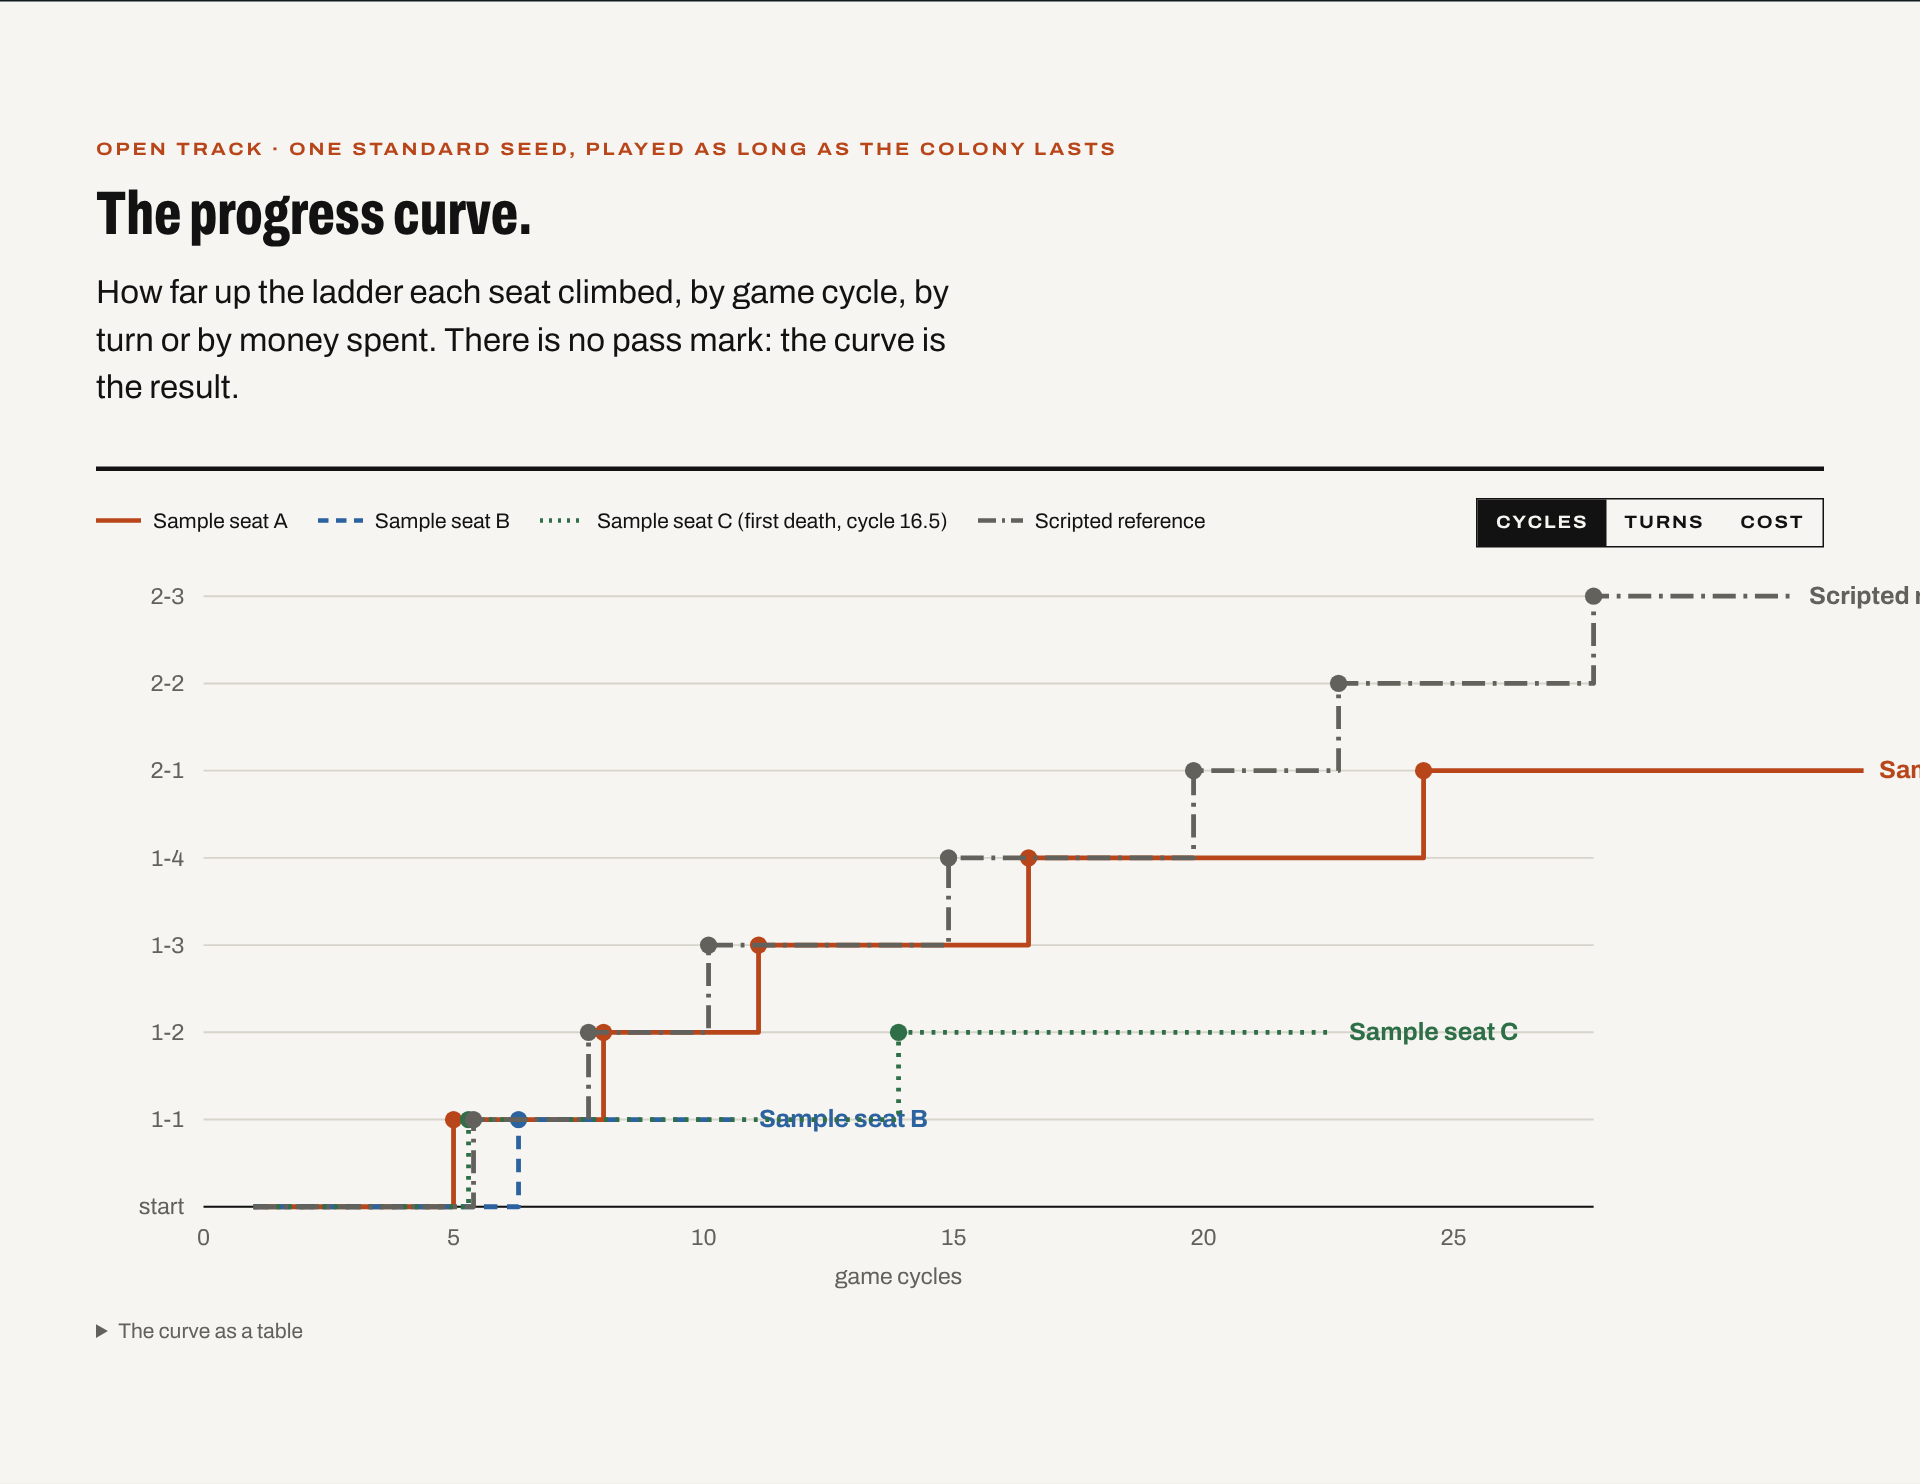
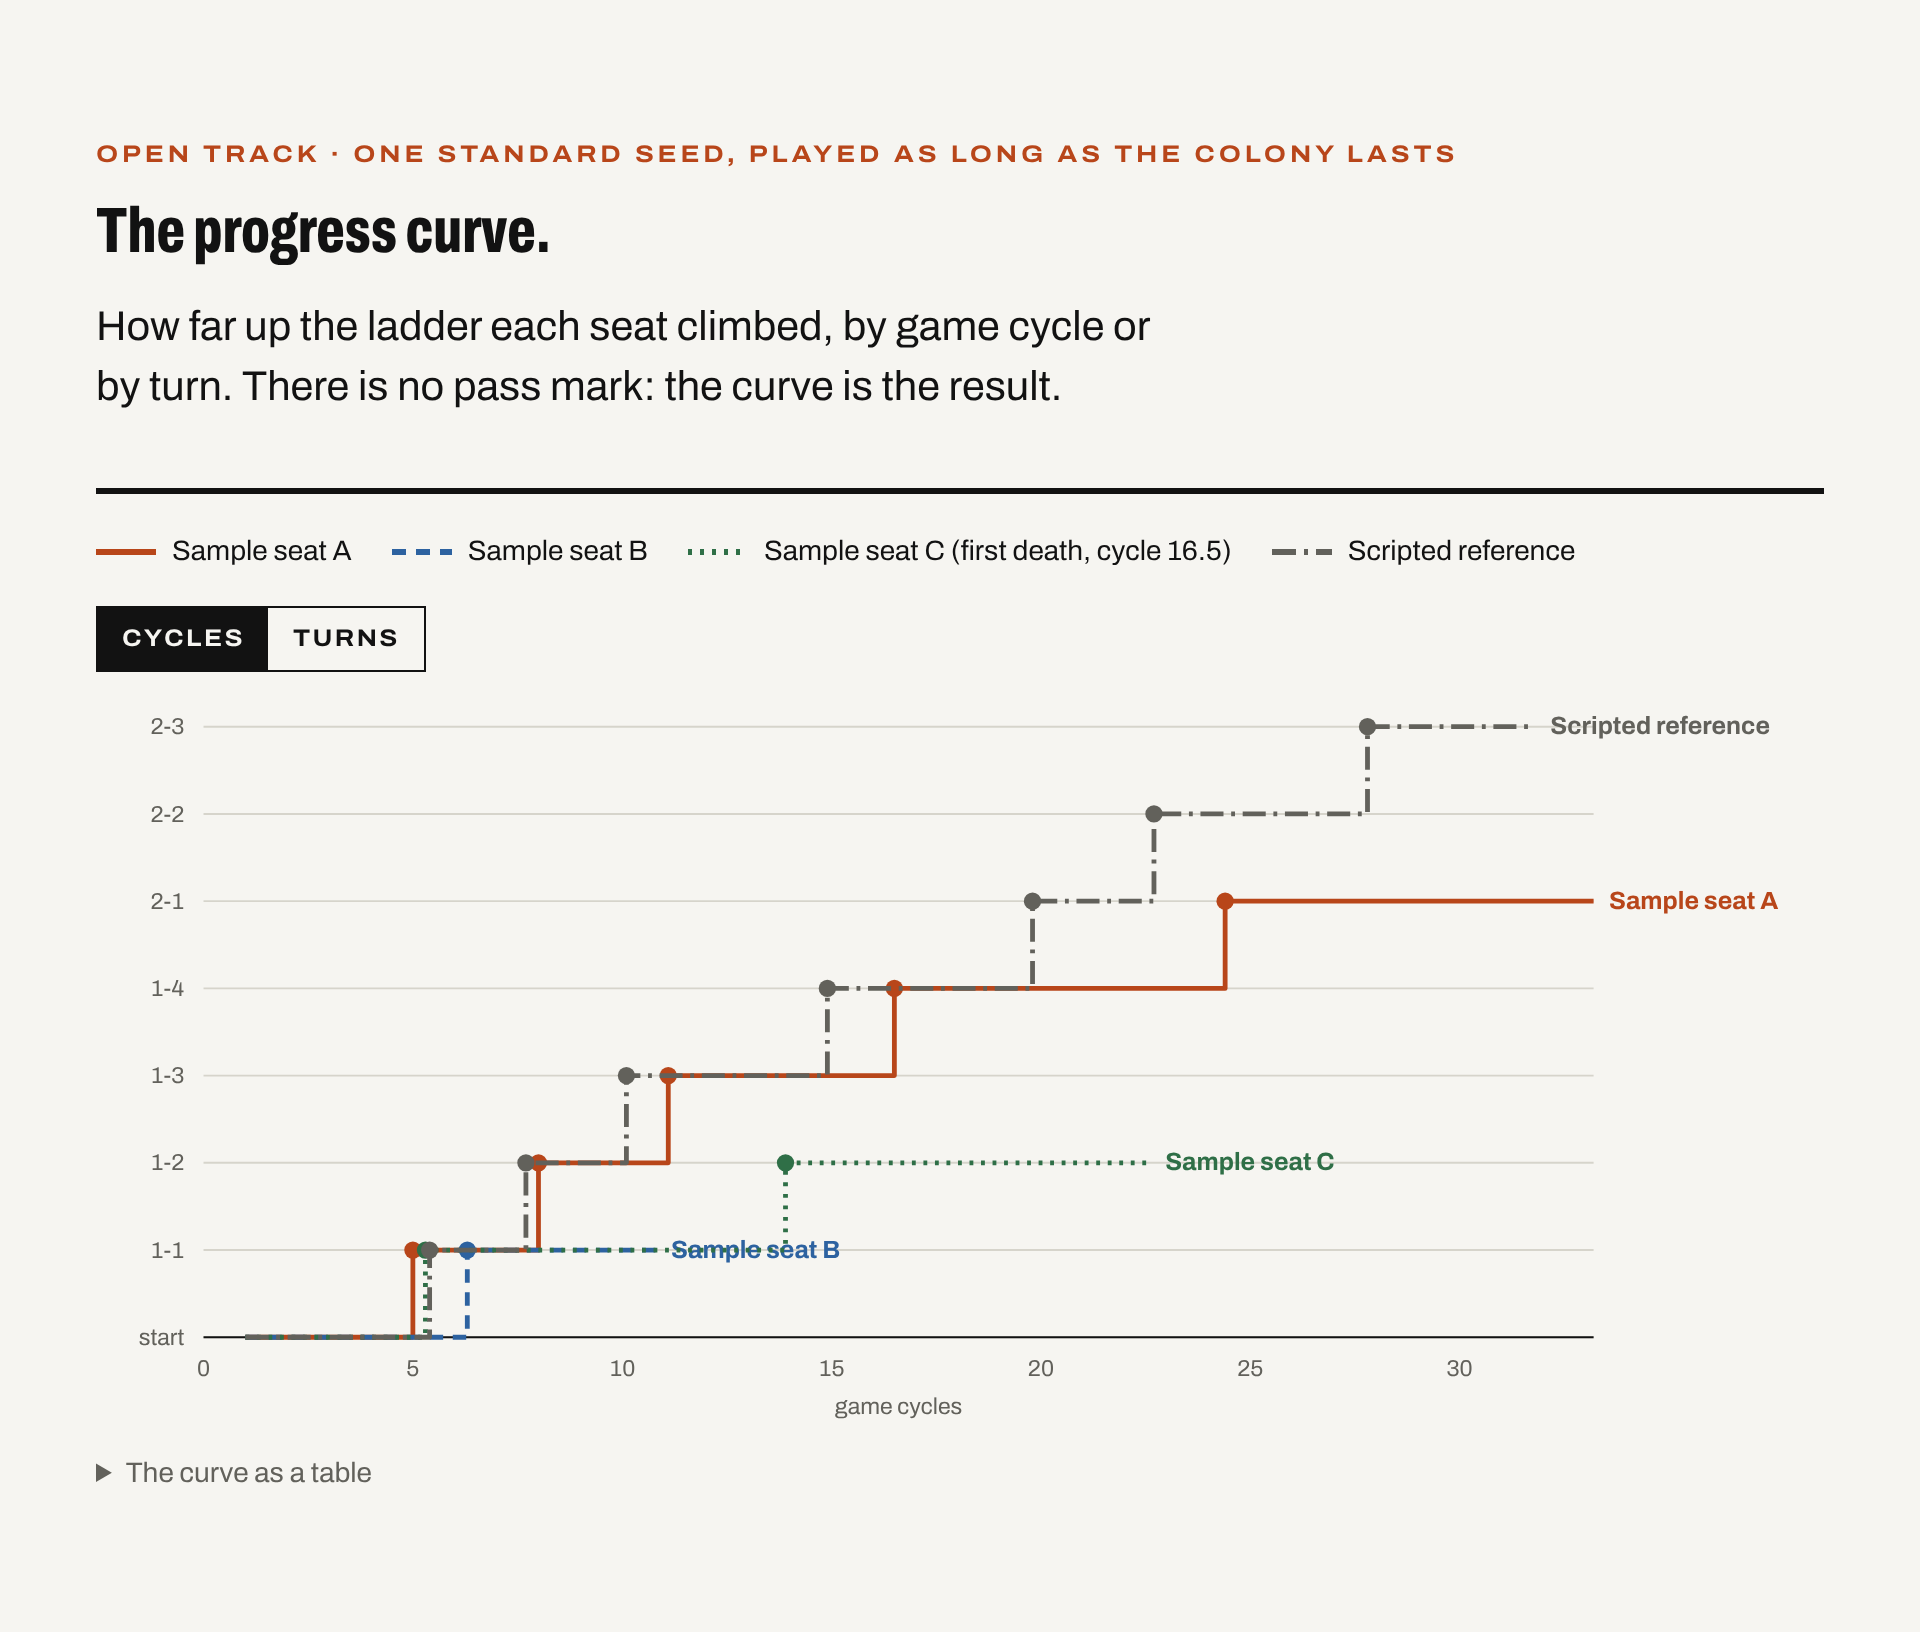
ONI Bench case page: remove money figures (#73)

diff --git a/docs/case-studies/oni-bench/index.html b/docs/case-studies/oni-bench/index.html
@@ -48,7 +48,7 @@
       <p class="status"><a href="../../evidence.html#status"><b>Interface study</b></a> · the run viewer with made-up data; no game run recorded yet · <a href="#evidence" style="white-space:nowrap">see the record</a></p>
     </div>
     <figure class="exhibit">
-      <img src="../../assets/oni-bench/viewer-scoreboard.png" alt="The ONI Bench run viewer's scoreboard, with a bar across the top reading Sample data: made-up sample data for designing the viewer, no game was played and no model was run. Below it the heading How far each seat keeps a colony going, and a ledger of 40 runs, 3 model seats, 29 passes and $29.59 of spend, all made up." width="1920" height="1001" fetchpriority="high">
+      <img src="../../assets/oni-bench/viewer-scoreboard.png" alt="The ONI Bench run viewer's scoreboard, with a bar across the top reading Sample data: made-up sample data for designing the viewer, no game was played and no model was run. Below it the heading How far each seat keeps a colony going, and a ledger of 40 runs, 3 model seats and 29 passes, all made up." width="1920" height="1000" fetchpriority="high">
       <figcaption><span><span class="label">Interface study</span> Made-up data, November 20, 2026</span></figcaption>
     </figure>
   </section>
@@ -63,7 +63,7 @@
     </div>
     <dl class="sbp-now">
       <div><dt>First test</dt><dd>Can the game run 20 turns with no one at the keyboard, save a checkpoint and load it again? The program inside the game, the turn driver and the test kit are written and pass against a stand-in game. The run on real hardware has not happened. Open</dd></div>
-      <div><dt>AI model results</dt><dd>None. No AI model plays until a scripted run has passed the first milestone, so that no money is spent on a test that might be broken. Not run</dd></div>
+      <div><dt>AI model results</dt><dd>None. No AI model plays until a scripted run has passed the first milestone, so that no AI plays on a test that might be broken. Not run</dd></div>
       <div><dt>Game footage</dt><dd>None yet. Films will follow SaveBench's rules: silent, captioned, never autoplayed, any cut declared in the caption. Not run</dd></div>
       <div><dt>Run viewer</dt><dd>Built, with made-up data. It reads the same run records the real runs will write. Shown below</dd></div>
     </dl>
@@ -105,7 +105,7 @@
         </tbody>
       </table>
     </div>
-    <p class="fine" style="margin-top:16px;max-width:72ch">Beside the ladder, and never blended into it: cycles survived before the first colonist dies, colony health every few cycles (breathable space, stress, food stored, power), and the cost of each milestone in dollars.</p>
+    <p class="fine" style="margin-top:16px;max-width:72ch">Beside the ladder, and never blended into it: cycles survived before the first colonist dies and colony health every few cycles (breathable space, stress, food stored, power).</p>
   </div>
 </section>
 
@@ -118,10 +118,10 @@
     </div>
     <div class="sbr-grid">
       <article class="sbr-card">
-        <h3>The progress curve <span class="sbr-ms">how far up the ladder, by cycle, turn or cost</span></h3>
+        <h3>The progress curve <span class="sbr-ms">how far up the ladder, by cycle or turn</span></h3>
         <figure class="sbr-film">
-          <a href="../../assets/oni-bench/viewer-progress-curve.png"><img src="../../assets/oni-bench/viewer-progress-curve.png" alt="The viewer's progress curve: four made-up seats climb a ladder of milestones from 1-1 to 2-3 against game cycles, each drawn with its own line style and named at the line's end." width="1920" height="1484" loading="lazy"></a>
-          <figcaption class="fine" style="margin-top:12px">There is no pass mark. Each seat is shown by how far it gets and how fast, in game time, in turns and in money. The scripted reference is labelled and never counted as an AI. Made-up data. <a href="../../assets/oni-bench/viewer-progress-curve.png">Open the full-size screen</a>.</figcaption>
+          <a href="../../assets/oni-bench/viewer-progress-curve.png"><img src="../../assets/oni-bench/viewer-progress-curve.png" alt="The viewer's progress curve: four made-up seats climb a ladder of milestones from 1-1 to 2-3 against game cycles, each drawn with its own line style and named at the line's end." width="1920" height="1632" loading="lazy"></a>
+          <figcaption class="fine" style="margin-top:12px">There is no pass mark. Each seat is shown by how far it gets and how fast, in game time and in turns. The scripted reference is labelled and never counted as an AI. Made-up data. <a href="../../assets/oni-bench/viewer-progress-curve.png">Open the full-size screen</a>.</figcaption>
         </figure>
       </article>
       <article class="sbr-card">
